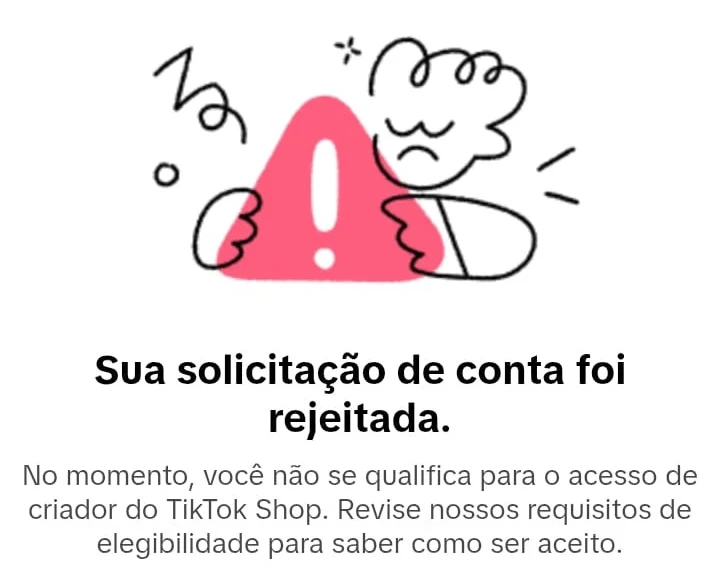
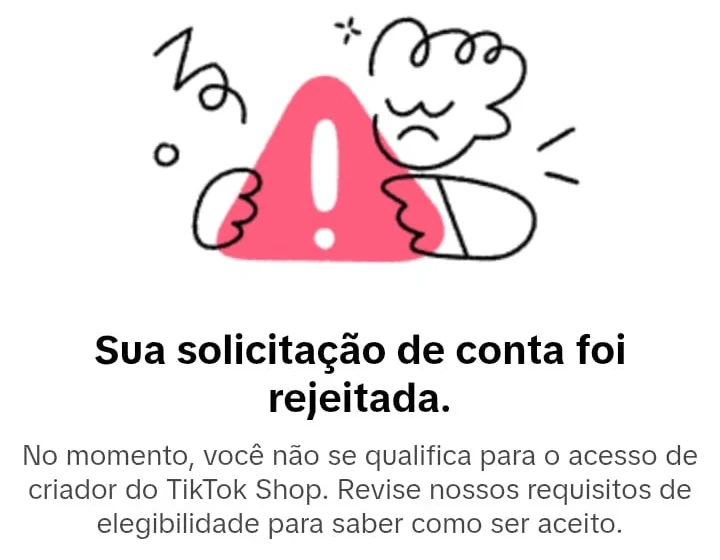
feat: selos do hero flutuando, anel girando e prints menores

diff --git a/src/ui/sections/home/Hero.tsx b/src/ui/sections/home/Hero.tsx
@@ -5,6 +5,7 @@ import { PhoneProfile } from "@/ui/components/account/PhoneProfile";
 import { Backdrop } from "@/ui/components/layout/Backdrop";
 import { TikTokGlyph } from "@/ui/components/TikTokGlyph";
 import { VerifiedBadge } from "@/ui/components/VerifiedBadge";
+import { cn } from "@/ui/lib/cn";
 import { EASE_OUT_EXPO, fadeUp, staggerContainer } from "@/ui/lib/motion";
 
 const HERO_PREVIEW = {
@@ -22,16 +23,35 @@ const PROOF_POINTS = [
   { icon: Mail, label: "Acesso entregue no seu e-mail" },
 ] as const;
 
-function FloatingChip({ className, children, delay }: { className: string; children: React.ReactNode; delay: number }) {
+const FLOAT_DURATION_S = 3.2;
+const FLOAT_DISTANCE_PX = 10;
+
+interface FloatingChipProps {
+  positionClassName: string;
+  className: string;
+  children: React.ReactNode;
+  delay: number;
+  /** Defasagem do ciclo para os selos não subirem juntos. */
+  floatOffset?: number;
+}
+
+/** Entra com fade e depois fica flutuando, subindo e descendo sem parar. */
+function FloatingChip({ positionClassName, className, children, delay, floatOffset = 0 }: FloatingChipProps) {
   const reduceMotion = useReducedMotion();
   return (
     <motion.div
-      initial={reduceMotion ? false : { opacity: 0, y: 12, scale: 0.96 }}
-      animate={{ opacity: 1, y: 0, scale: 1 }}
-      transition={{ duration: 0.7, delay, ease: EASE_OUT_EXPO }}
-      className={className}
+      className={cn("absolute", positionClassName)}
+      animate={reduceMotion ? undefined : { y: [0, -FLOAT_DISTANCE_PX, 0] }}
+      transition={{ duration: FLOAT_DURATION_S, delay: delay + floatOffset, repeat: Infinity, ease: "easeInOut" }}
     >
-      {children}
+      <motion.div
+        initial={reduceMotion ? false : { opacity: 0, y: 12, scale: 0.96 }}
+        animate={{ opacity: 1, y: 0, scale: 1 }}
+        transition={{ duration: 0.7, delay, ease: EASE_OUT_EXPO }}
+        className={className}
+      >
+        {children}
+      </motion.div>
     </motion.div>
   );
 }
@@ -111,7 +131,8 @@ export function Hero() {
 
           <FloatingChip
             delay={0.6}
-            className="absolute top-[38%] -left-8 flex items-center gap-2.5 rounded-2xl border border-white/10 bg-surface/90 px-3.5 py-2.5 shadow-2xl shadow-black/50 backdrop-blur sm:-left-28"
+            positionClassName="top-[38%] -left-8 sm:-left-28"
+            className="flex items-center gap-2.5 rounded-2xl border border-white/10 bg-surface/90 px-3.5 py-2.5 shadow-2xl shadow-black/50 backdrop-blur"
           >
             <VerifiedBadge className="size-7" />
             <div>
@@ -122,7 +143,9 @@ export function Hero() {
 
           <FloatingChip
             delay={0.8}
-            className="absolute -right-4 -bottom-6 rounded-2xl border border-white/10 bg-surface/90 px-4 py-3 shadow-2xl shadow-black/50 backdrop-blur sm:-right-20"
+            floatOffset={FLOAT_DURATION_S / 2}
+            positionClassName="-right-4 -bottom-6 sm:-right-20"
+            className="rounded-2xl border border-white/10 bg-surface/90 px-4 py-3 shadow-2xl shadow-black/50 backdrop-blur"
           >
             <p className="text-[0.68rem] text-mist">Pedidos recusados pelo TikTok</p>
             <p className="font-display text-2xl font-bold text-alert">~60%</p>

diff --git a/src/ui/components/layout/Backdrop.tsx b/src/ui/components/layout/Backdrop.tsx
@@ -9,7 +9,7 @@ export function Backdrop() {
       <div className="absolute top-24 -right-16 h-6 w-[26rem] rotate-[-35deg] rounded-full bg-gradient-to-r from-violet/0 via-magenta/50 to-pink/70 opacity-60 blur-[1px] max-md:hidden" />
       <div className="absolute top-[26rem] -left-24 h-10 w-[30rem] rotate-[-35deg] rounded-full bg-gradient-to-r from-pink/60 via-magenta/40 to-violet/0 opacity-50 max-md:hidden" />
       <div className="absolute top-40 left-[8%] h-20 w-14 bg-dots opacity-40 max-lg:hidden" />
-      <div className="absolute top-[30rem] right-[6%] size-24 rounded-full border-[5px] border-electric/40 [border-left-color:var(--color-pink)] opacity-50 max-lg:hidden" />
+      <div className="absolute top-[30rem] right-[6%] size-24 animate-[spin_6s_linear_infinite] rounded-full border-[5px] border-electric/40 [border-left-color:var(--color-pink)] opacity-60 max-lg:hidden" />
     </div>
   );
 }

diff --git a/src/ui/sections/home/ProblemSection.tsx b/src/ui/sections/home/ProblemSection.tsx
@@ -32,7 +32,7 @@ function ScreenshotCrop({ src, alt, width, height, tone, fadeClassName }: Screen
   return (
     <figure
       className={cn(
-        "relative mt-6 aspect-[5/4] overflow-hidden rounded-2xl border shadow-2xl shadow-black/50",
+        "relative mx-auto mt-6 aspect-[9/7] w-full max-w-[17rem] overflow-hidden rounded-2xl border shadow-2xl shadow-black/50",
         tone === "alert" ? "border-alert/30" : "border-electric/30",
       )}
     >
@@ -72,7 +72,7 @@ export function ProblemSection() {
               src="/images/tiktok-shop-rejeitada.webp"
               alt="Print do TikTok Shop: Sua solicitação de conta foi rejeitada. No momento, você não se qualifica para o acesso de criador do TikTok Shop."
               width={720}
-              height={585}
+              height={560}
               tone="alert"
               fadeClassName="from-white"
             />
